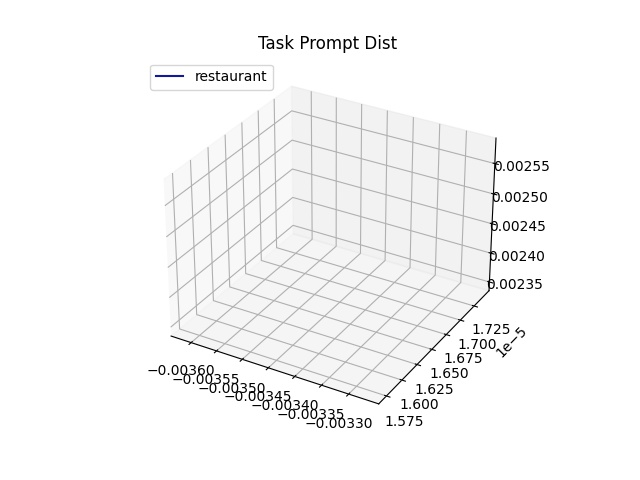
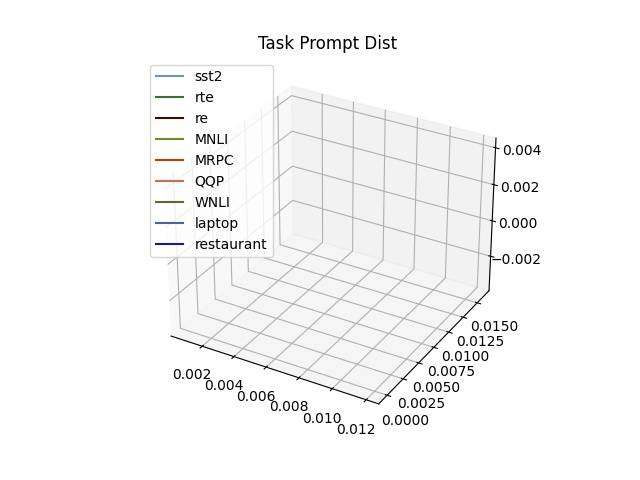
update

Changed region(s): [[0.2188, 0.1875, 0.875, 0.9062], [0.2188, 0.125, 0.4062, 0.25]]

diff --git a/draw_cuda_taskprompt.py b/draw_cuda_taskprompt.py
@@ -370,6 +370,10 @@ blocked_list = [5,8]
 #re generate id
 #plot on 3D: https://www.delftstack.com/zh-tw/howto/matplotlib/scatter-plot-legend-in-matplotlib/#%25E5%259C%25A8-matplotlib-3d-%25E6%2595%25A3%25E9%25BB%259E%25E5%259C%2596%25E4%25B8%258A%25E6%2596%25B0%25E5%25A2%259E%25E5%259C%2596%25E4%25BE%258B
 
+if dim ==3:
+    axes = plt.subplot(111, projection='3d')
+else:
+    pass
 for task_id, task_name in task_map.items():
     print(task_id)
     if task_id in blocked_list:
@@ -380,7 +384,6 @@ for task_id, task_name in task_map.items():
     if dim == 2:
         plt.scatter(compressed_prompt_emb[task_id][0], compressed_prompt_emb[task_id][1], color=color_map[task_id], label=task_map[task_id], s=100)
     elif dim == 3:
-        axes = plt.subplot(111, projection='3d')
         axes.plot(compressed_prompt_emb[task_id][0], compressed_prompt_emb[task_id][1], compressed_prompt_emb[task_id][2], color=color_map[task_id], label=task_map[task_id])
     else:
         print("Wonrg!!!")
